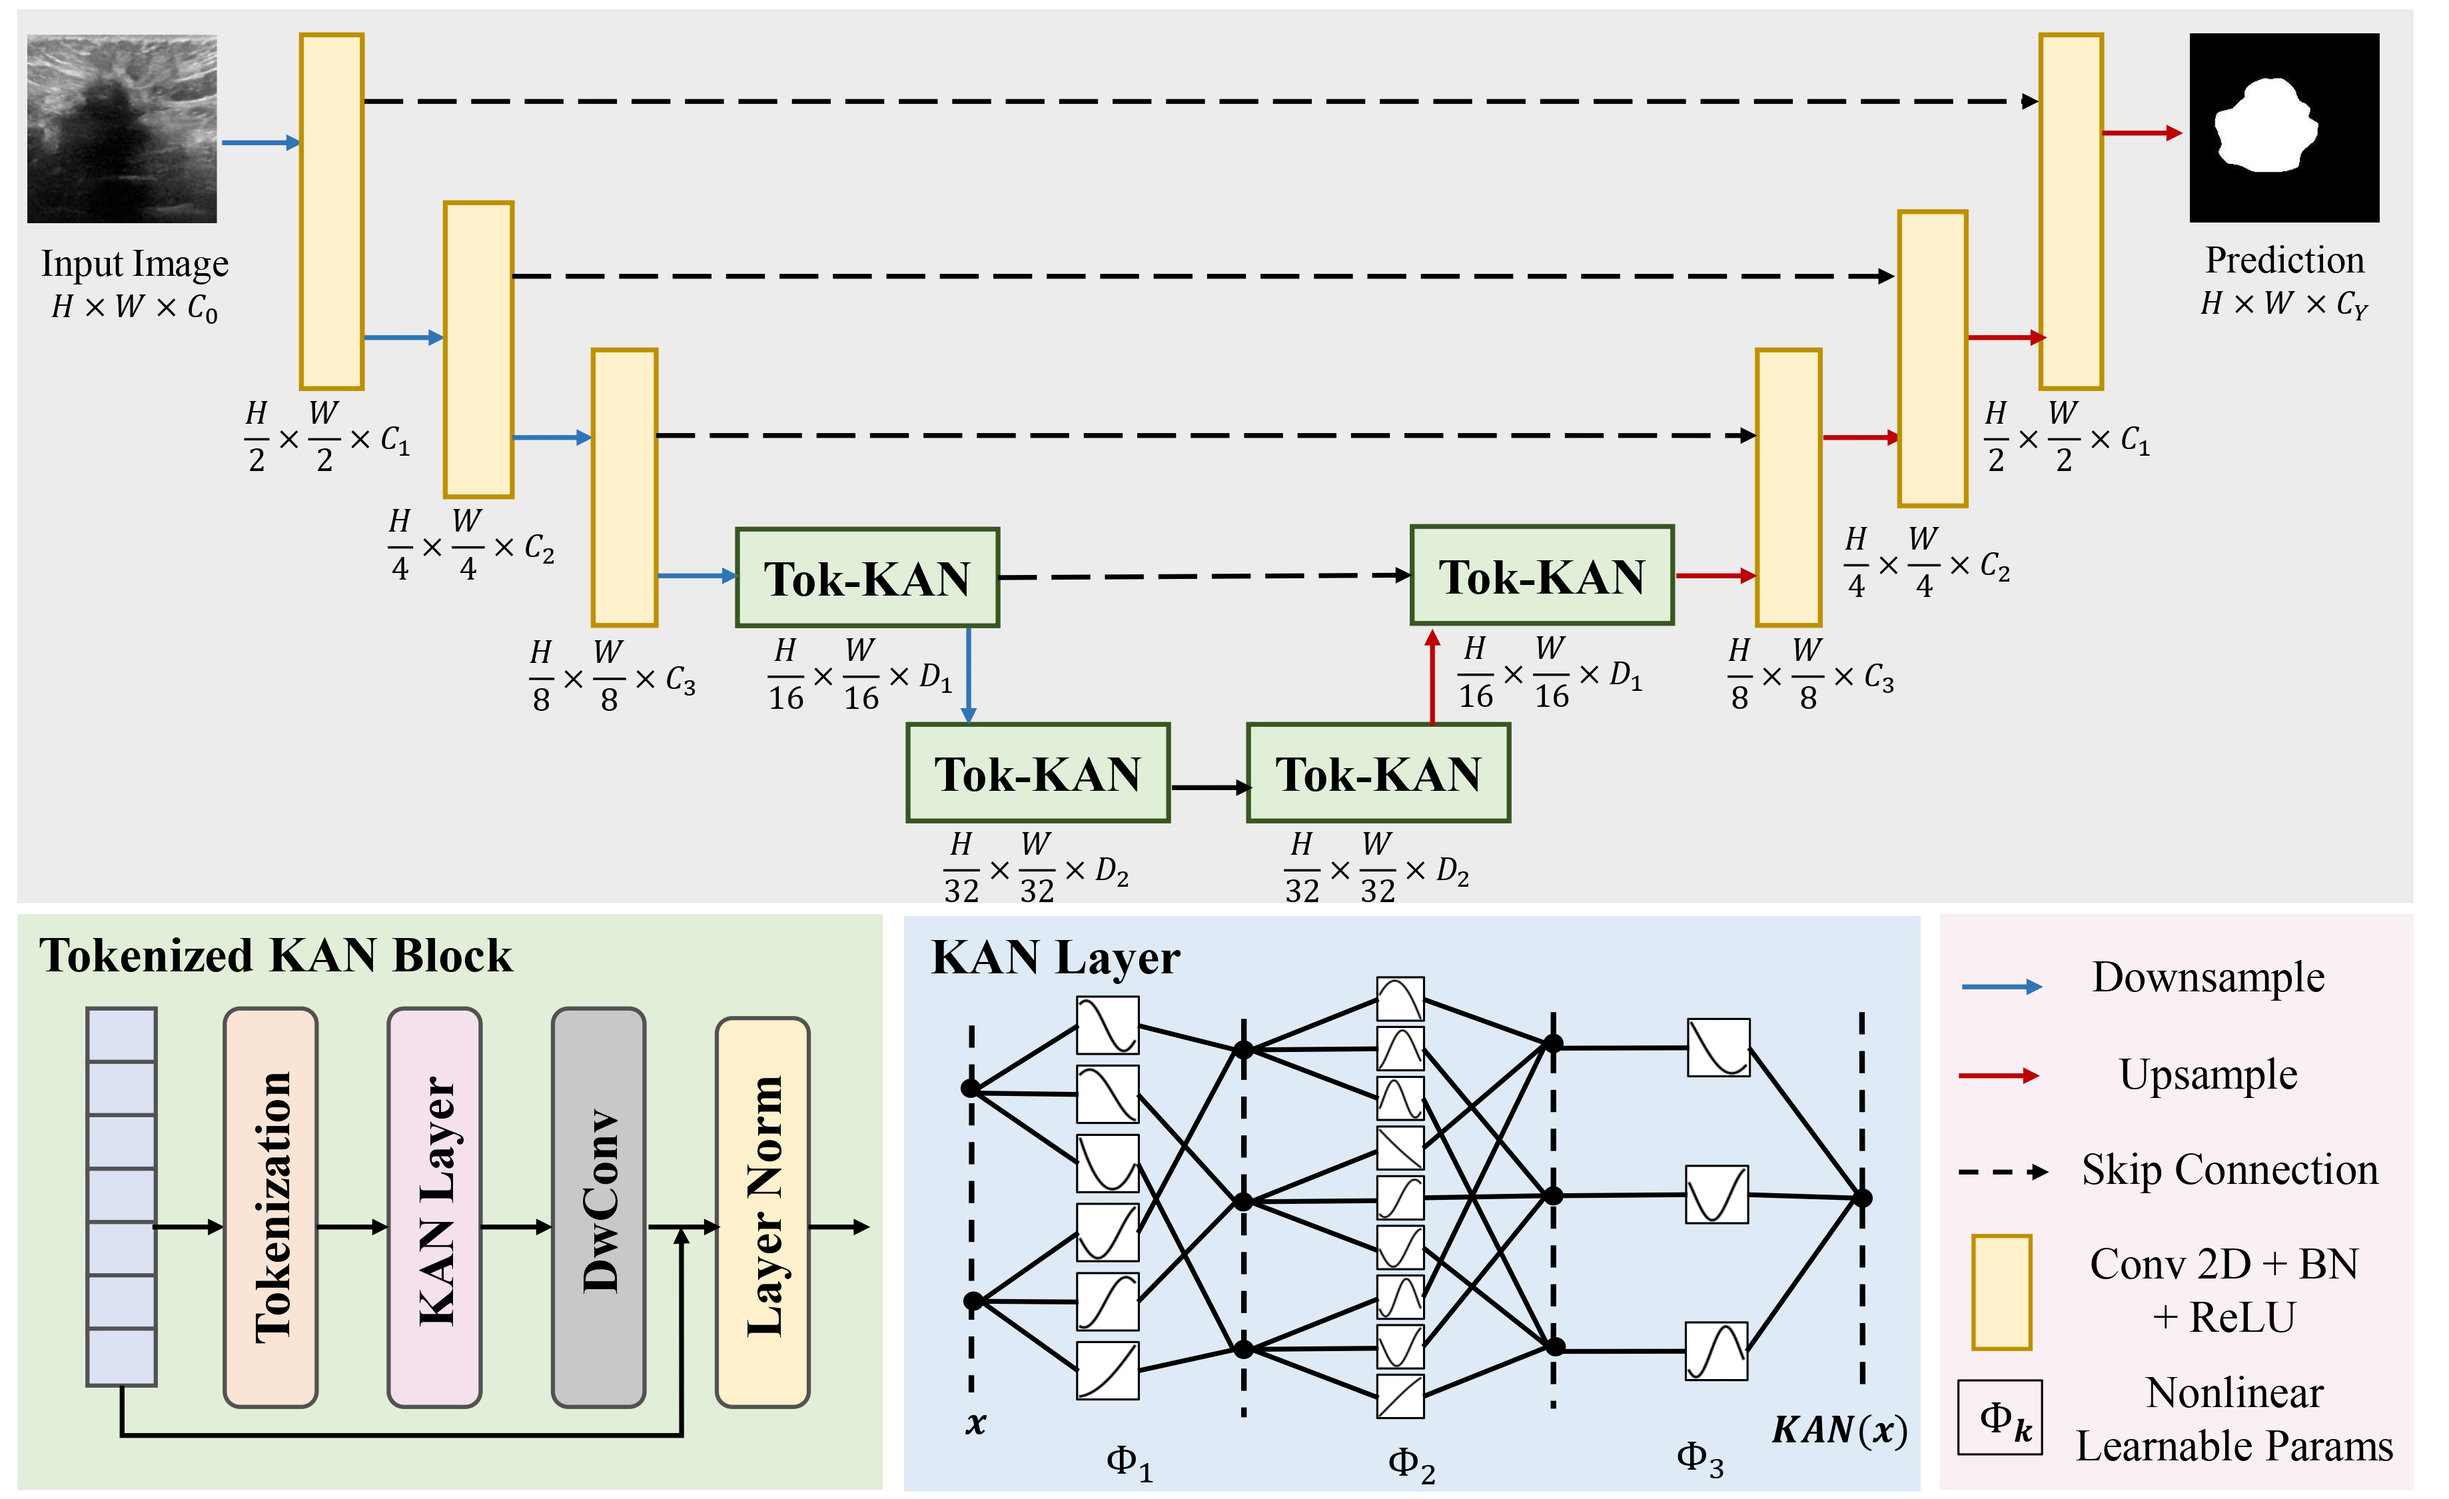
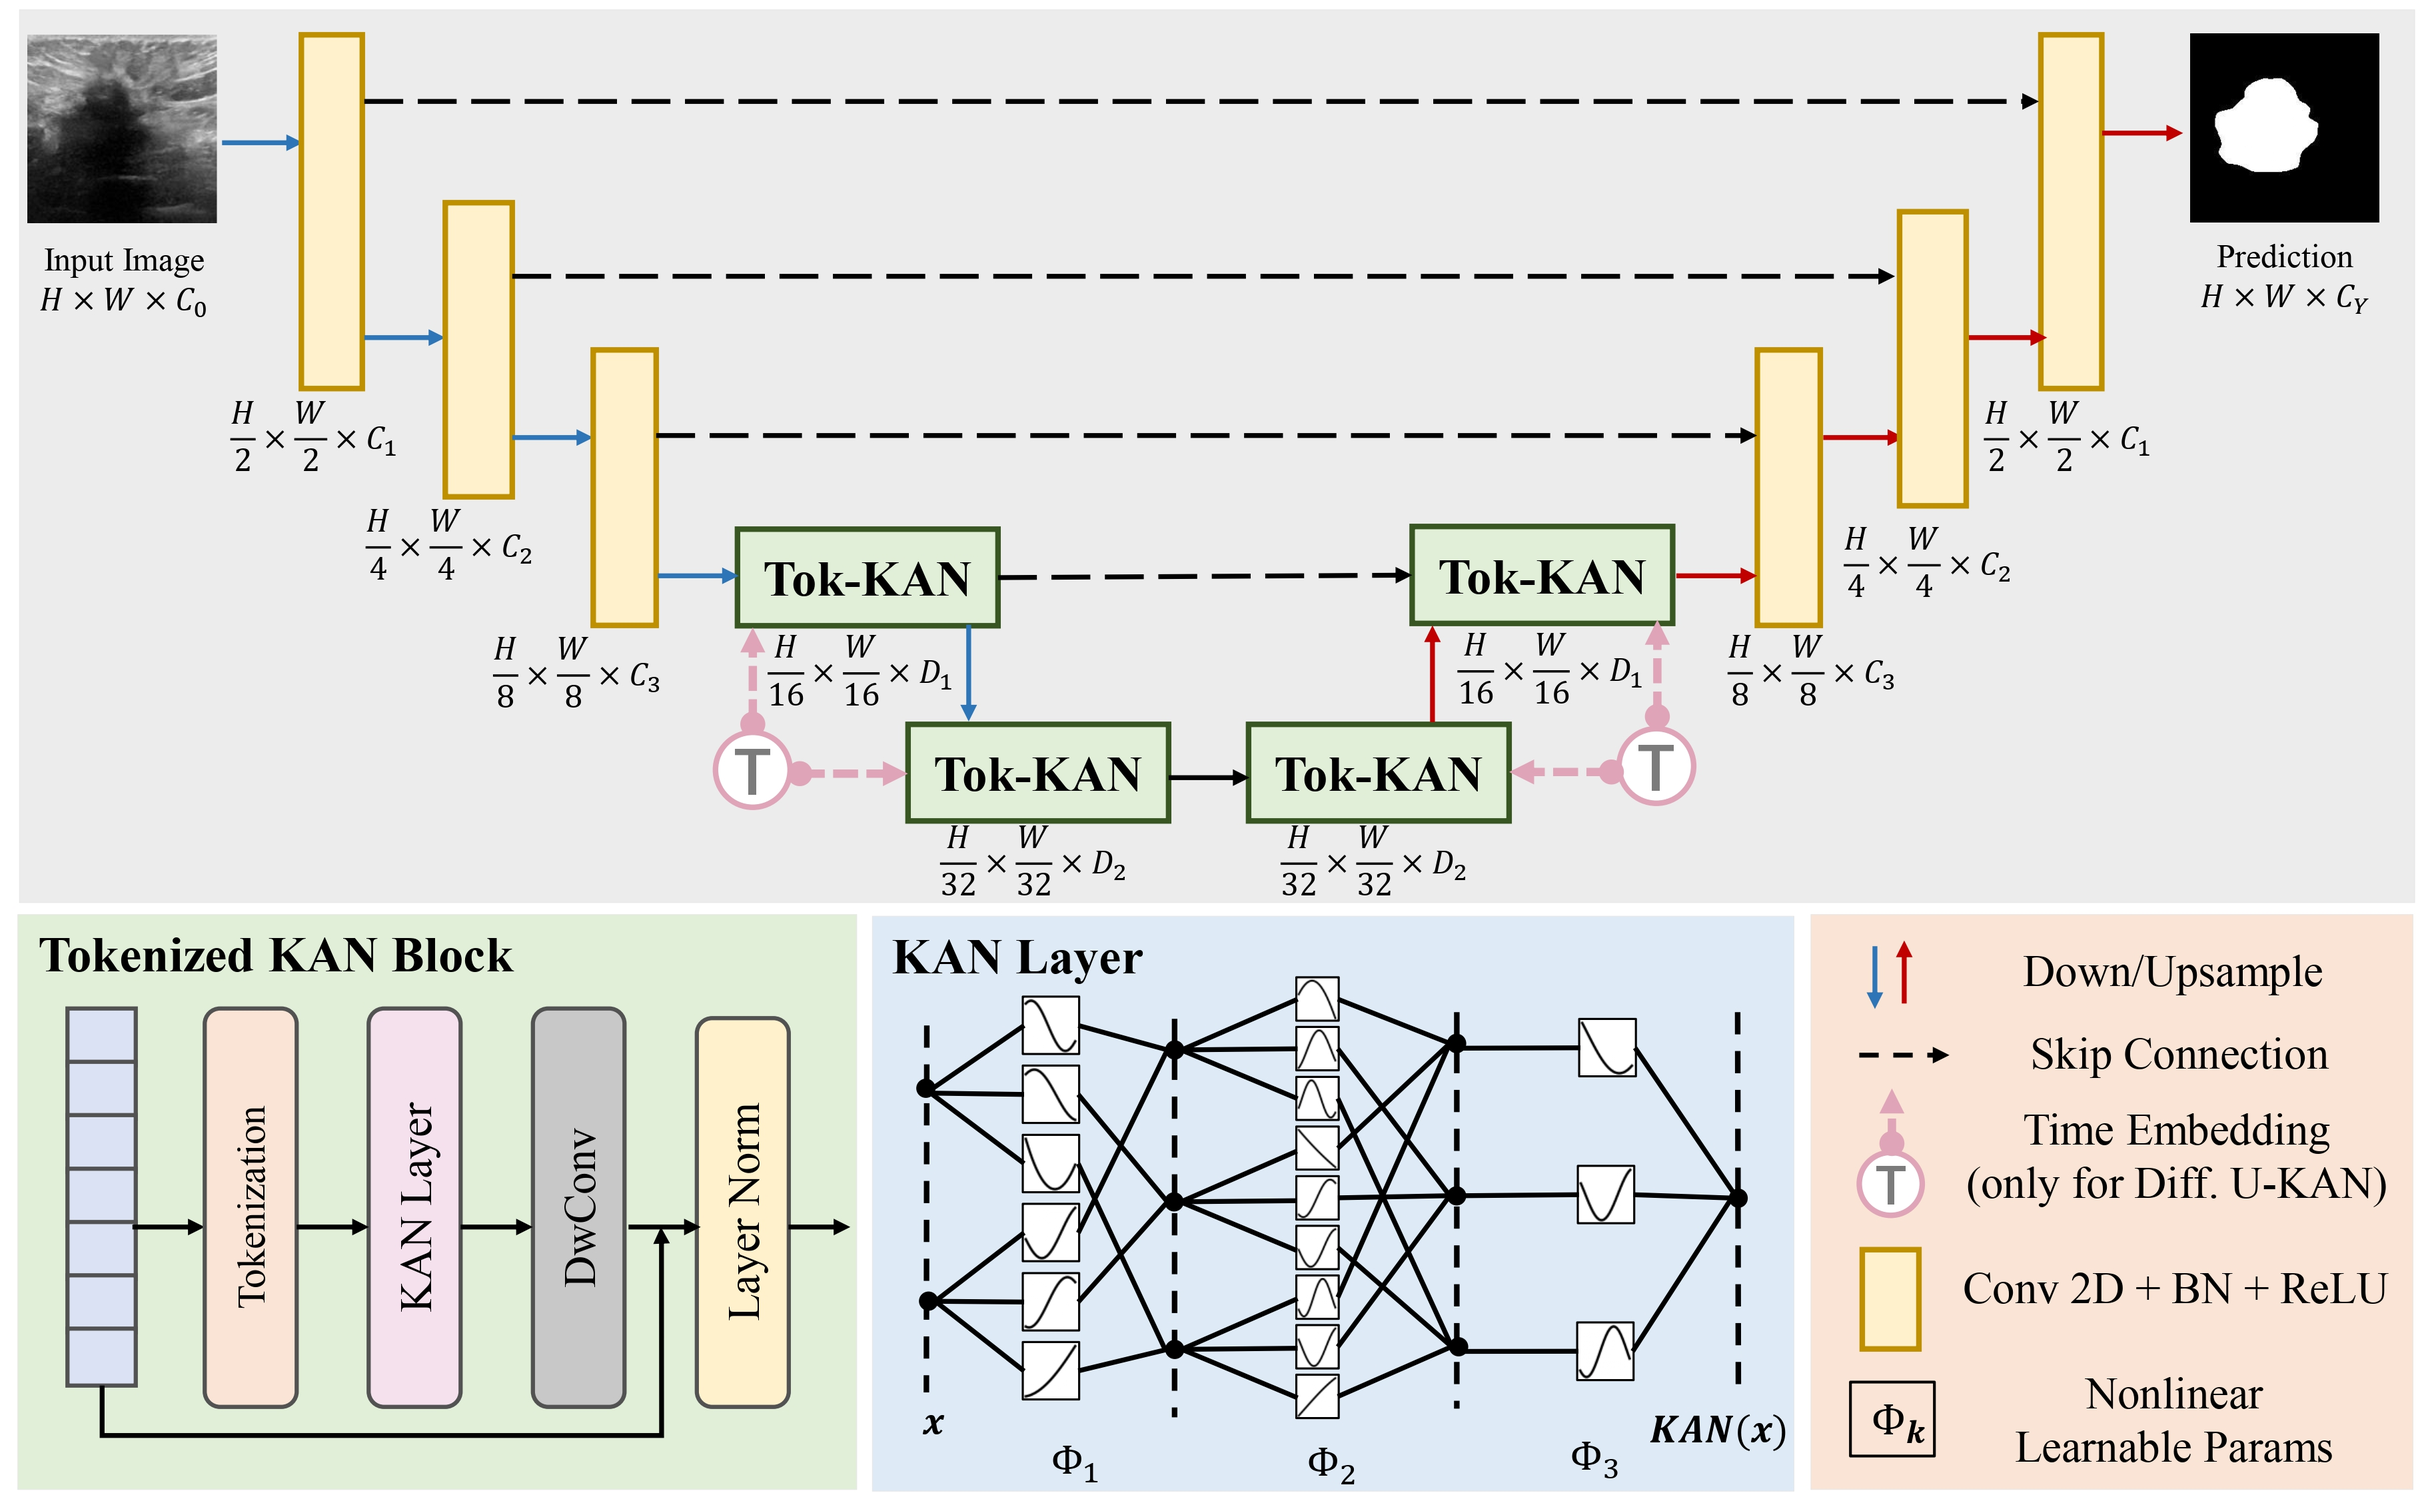
init

diff --git a/index.html b/index.html
@@ -65,7 +65,7 @@
     <meta http-equiv="X-UA-Compatible" content="IE=edge">
     <meta name="viewport" content="width=device-width, initial-scale=1">
     <title>
-      Endora: Video Generation Models as Endoscopy Simulators
+      U-KAN Makes Strong Backbone for Medical Image Segmentation and Generation
     </title>
     <!-- Bootstrap -->
     <link href="css/bootstrap-4.4.1.css" rel="stylesheet">
@@ -115,7 +115,7 @@
                     <i class="fa fa-github-alt"></i> Code </a> </p>
               </div>
               <div class="column">
-                  <p class="mb-5"><a class="btn btn-large btn-light" href="" role="button"  target="_blank">
+                  <p class="mb-5"><a class="btn btn-large btn-light" href="#bib" role="button"  target="_blank">
                     <i class="fa fa-database"></i> BibTex </a> </p>
               </div>
             </div>
@@ -191,8 +191,11 @@
             <hr style="margin-top:0px">
             <img src="./pic/framework.jpg" alt="" width="1000" height="600">
             <br>
+            <br>
             <div class="text-left">
-            Overview of U-KAN pipeline. After feature extraction by several convolution stages, the intermediate maps are tokenized and processed by stacked KAN layers.
+              Overview of U-KAN pipeline. After feature extraction by several convolution stages, the
+              intermediate maps are tokenized and processed by stacked KAN layers. The time embedding is only
+              injected into the KAN blocks when applied for Diffusion U-KAN.
             <div>
       </div>
     </div>
@@ -205,7 +208,12 @@
         <div class="col-12 text-center">
             <h2>Segmentation Results </h2>
             <hr style="margin-top:0px">
+            <h3> Visual Results </h3>
             <img src="./pic/seg.jpg" alt="" width="1000" height="500">
+            <hr style="margin-top:0px">
+            <h3> Quantitative Results </h3>
+            <img src="./pic/res_1.png" alt="" width="800" height="250">
+            <img src="./pic/res_2.png" alt="" width="800" height="300">
       </div>
     </div>
   </section>
@@ -253,7 +261,7 @@
           <h3>Citation</h3>
           <hr style="margin-top:0px">
               <pre style="background-color: #e9eeef;padding: 1.25em 1.5em">
-<code>@article{li2024endora,
+<code id="bib">@article{li2024endora,
   author    = {Chenxin Li and Xinyu Liu and Wuyang Li and Cheng Wang and Hengyu Liu and Yixuan Yuan},
   title     = {U-KAN Makes Strong Backbone for Medical
 Image Segmentation and Generation},
